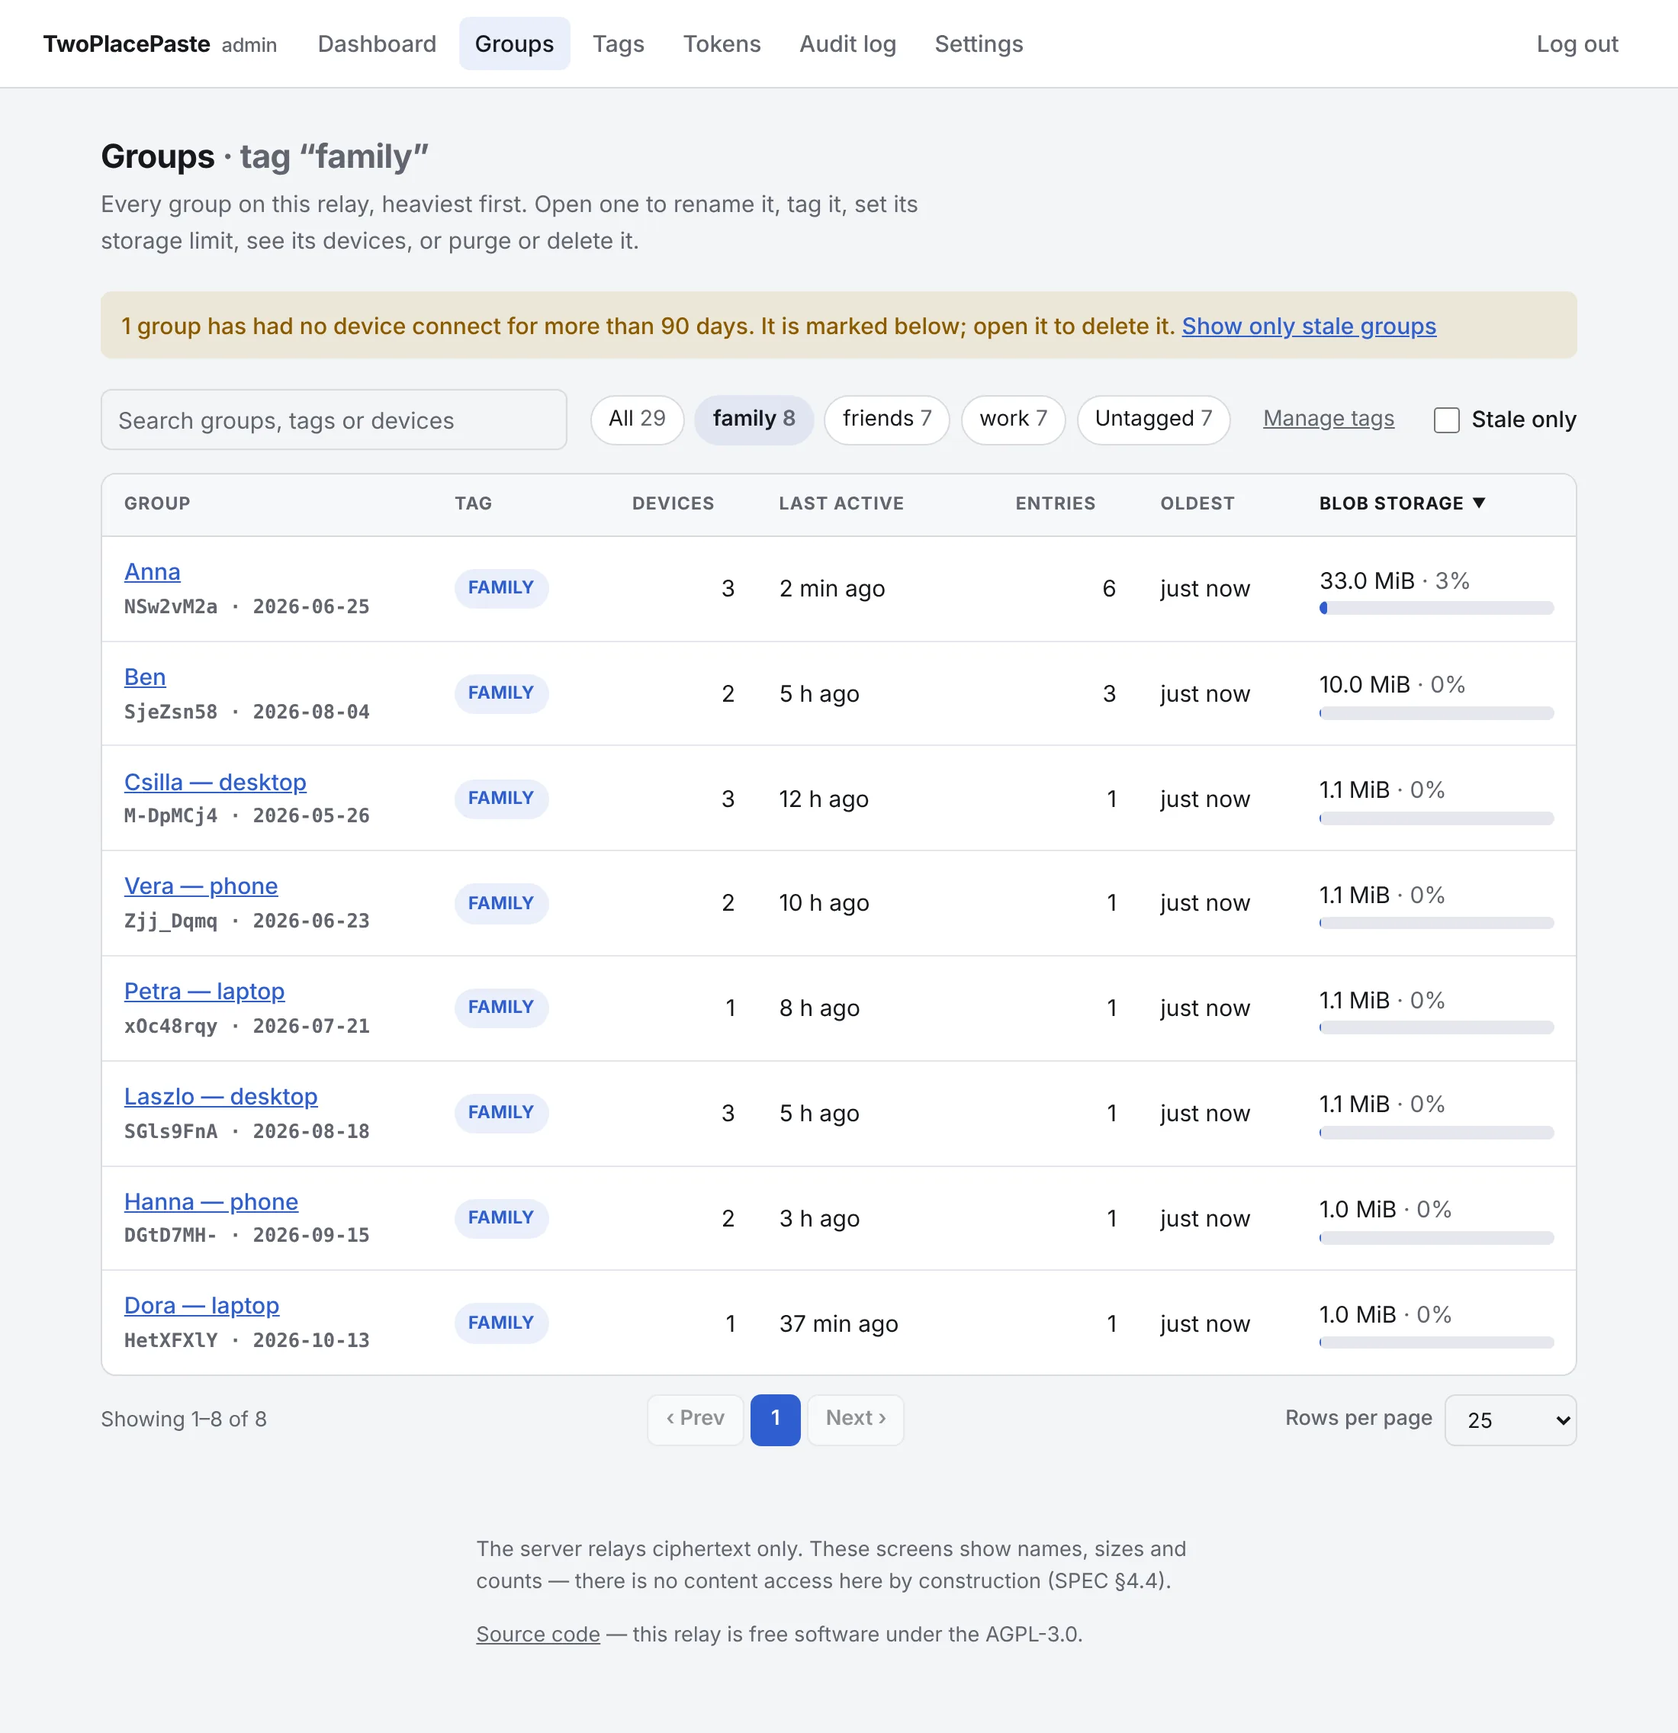
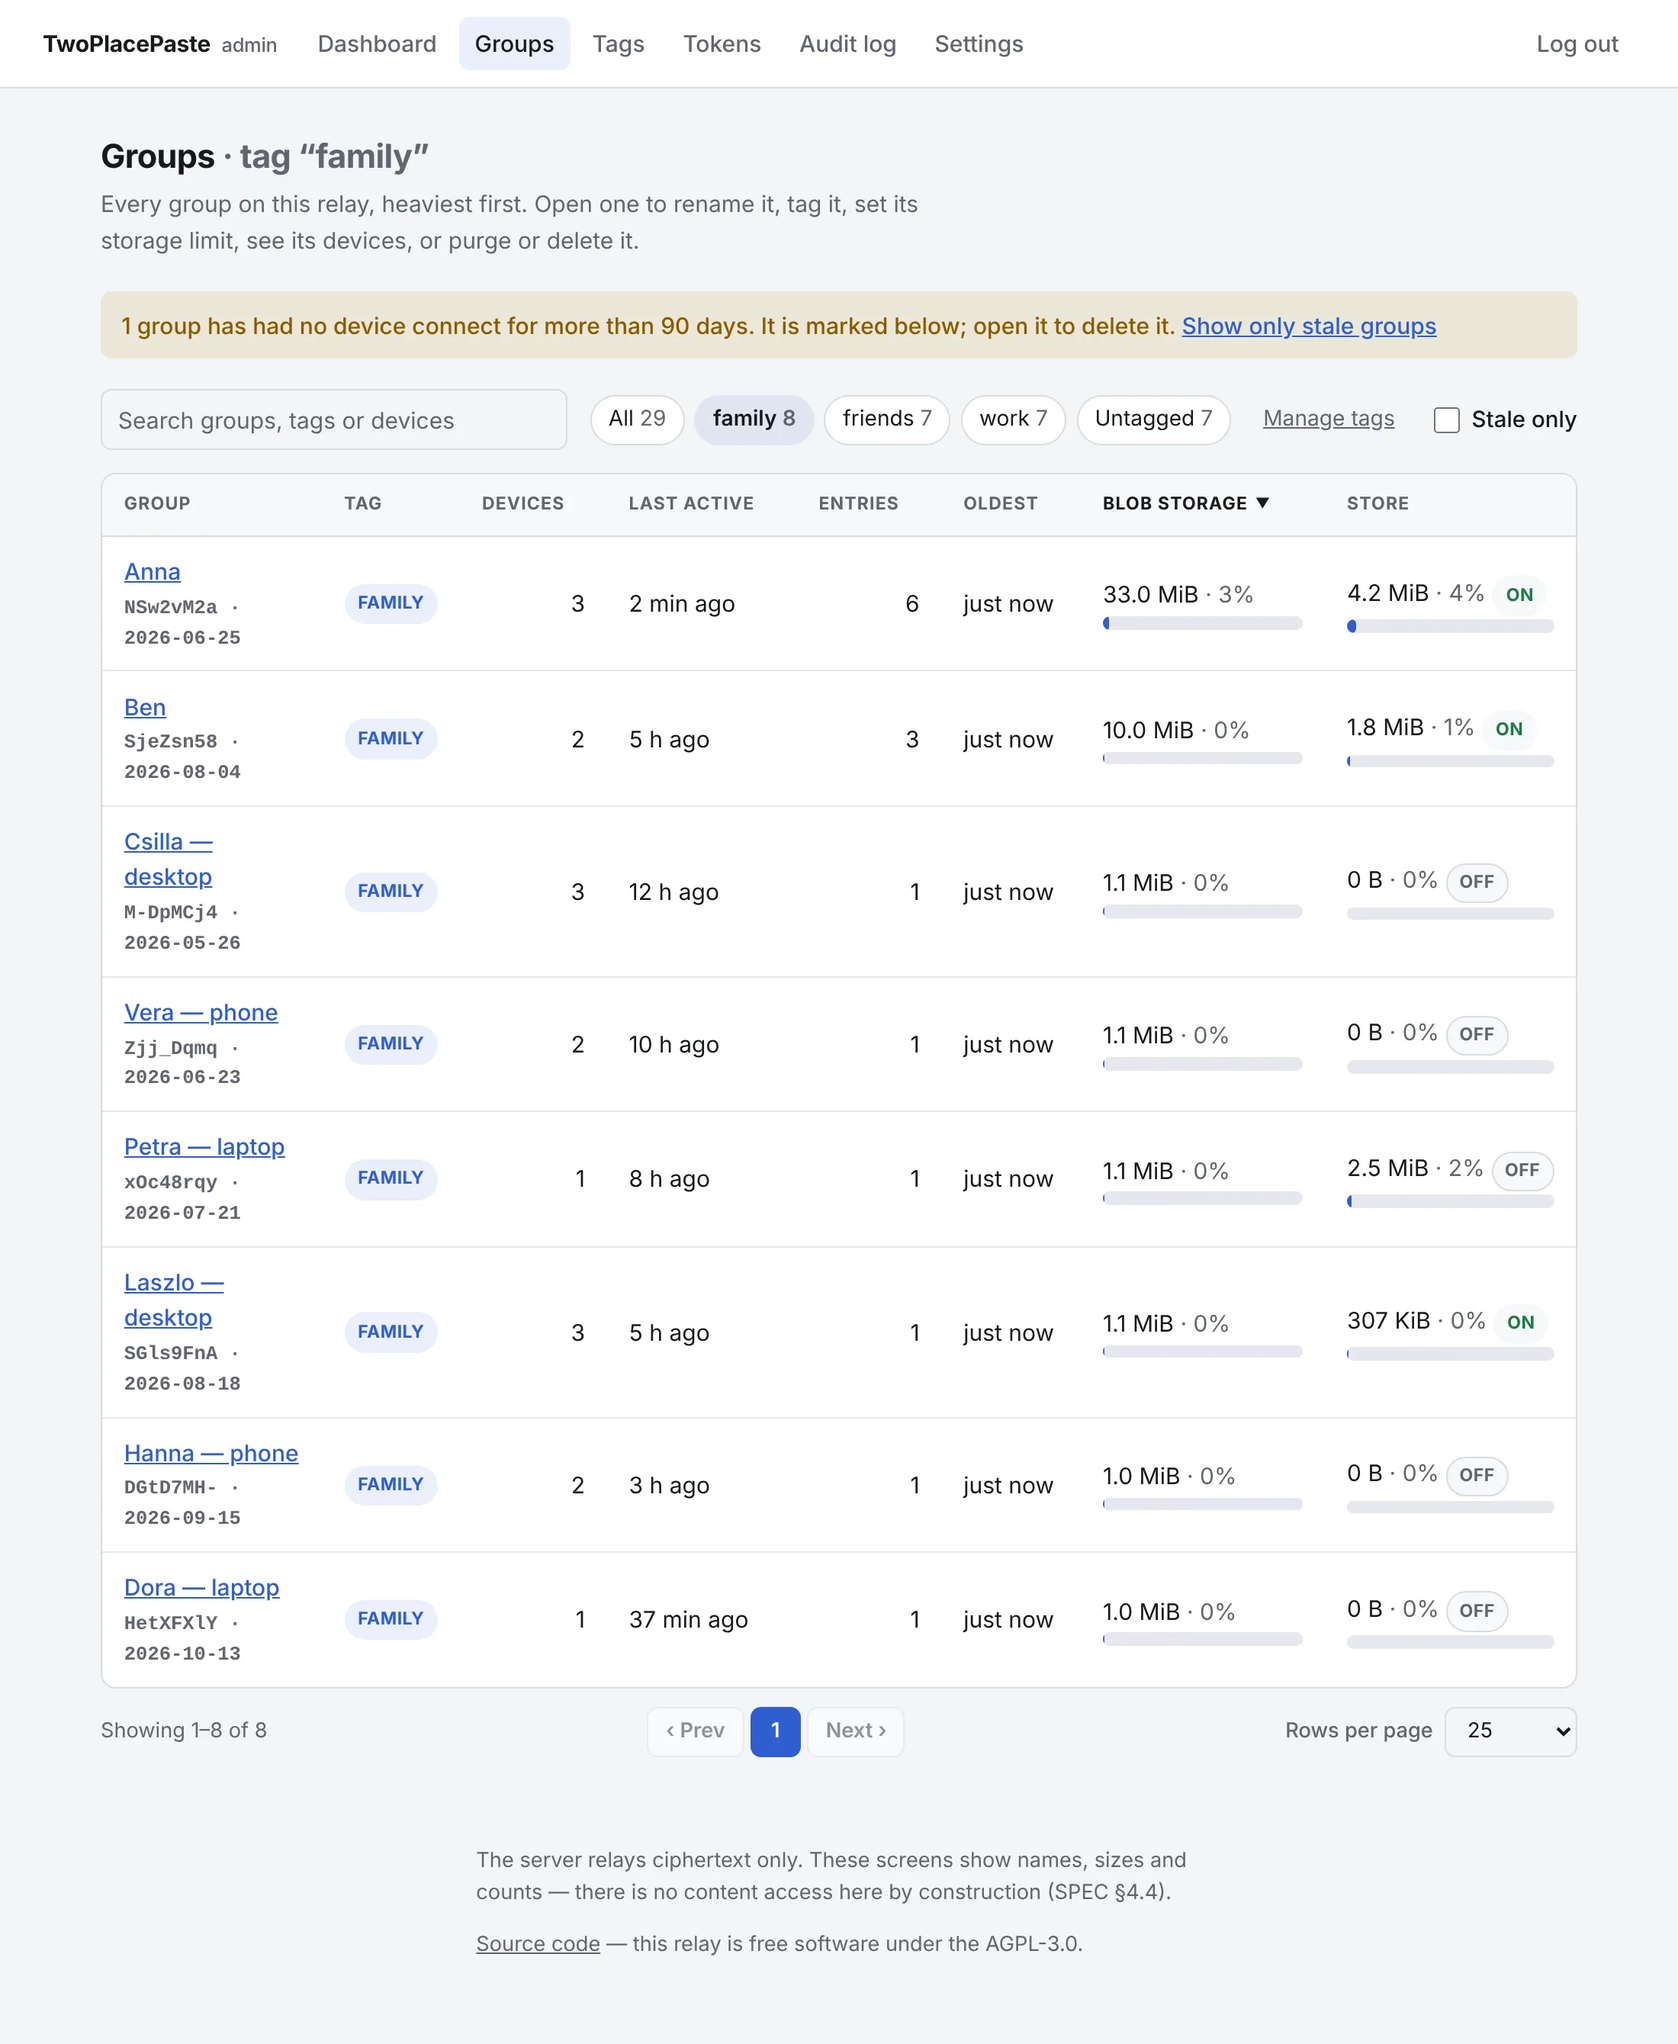
Show each group's store on the groups list
The groups list gains a Store column: what each group's store holds
against the cap it runs into, and whether it is on, off or being
emptied. The group page's store tile carries the same badge, so the
state reads at a glance there too.

- admin: each row of the groups list carries its store (on, emptying,
  used bytes and items, cap), and the list sorts by it (sort=store) and
  says whether the relay has a store at all (has_store). Only the list
  reads it, so the dashboard does no extra lookups.
- ui: the Store column, hidden on a relay without a store; a StoreBadge
  shared by the column, the tile and the Store section; StatCard takes
  a badge at the end of its title.
- docs: the groups list and group page text, and retaken screenshots.

Claude-Session: https://claude.ai/code/session_01HmpCbhUmA35H1CEHL6vmNK

diff --git a/server/ui/src/pages/GroupsPage.tsx b/server/ui/src/pages/GroupsPage.tsx
@@ -1,6 +1,6 @@
 import { useCallback, useState } from "react";
-import type { Group, GroupList } from "../api";
-import { Badge } from "../components/Badge";
+import type { Group, GroupList, GroupStoreRow } from "../api";
+import { Badge, StoreBadge } from "../components/Badge";
 import { Notice, Problems } from "../components/Notice";
 import { SmartTable, type Column, type DefaultSort } from "../components/SmartTable";
 import { Dash } from "../components/Dash";
@@ -72,6 +72,14 @@ const storageColumn: Column<Group> = {
   render: (g) => <UsageCell group={g} />,
 };
 
+const storeColumn: Column<Group> = {
+  key: "store",
+  header: "Store",
+  firstDir: "desc",
+  className: "usage",
+  render: (g) => (g.store ? <StoreCell group={g} store={g.store} /> : <Dash />),
+};
+
 /** GroupsPage lists every group, heaviest first, searchable and sortable,
  *  and narrowed by tag (?tag=name, or ?tag=- for the untagged ones) or to
  *  the stale ones (?stale=1). */
@@ -86,7 +94,12 @@ export function GroupsPage() {
 
   // Until the first answer says whether storage is accounted, assume it is:
   // a column that appears is less jarring than one that vanishes.
-  const columns = meta && !meta.has_usage ? baseColumns : [...baseColumns, storageColumn];
+  // The store column likewise, which every relay has today.
+  const columns = [
+    ...baseColumns,
+    ...(meta && !meta.has_usage ? [] : [storageColumn]),
+    ...(meta && !meta.has_store ? [] : [storeColumn]),
+  ];
   const open = useCallback((g: Group) => navigate(groupPath(g.handle)), [navigate]);
 
   // A filter starts its list from the first page.
@@ -209,6 +222,28 @@ function UsageCell({ group }: { group: Group }) {
         )}
       </span>
       <UsageMeter used={used} limit={limit} label={`Blob storage used by ${group.name}`} />
+    </span>
+  );
+}
+
+/** StoreCell is a group's store: on or off, and what it holds against the
+ *  cap it runs into. */
+function StoreCell({ group, store }: { group: Group; store: GroupStoreRow }) {
+  const used = store.used_bytes;
+  const limit = store.limit_bytes;
+  return (
+    <span className="stack">
+      <span className="nowrap">
+        {humanBytes(used)}
+        {limit > 0 && (
+          <>
+            {" "}
+            <span className="muted">· {percent(used, limit)}%</span>
+          </>
+        )}{" "}
+        <StoreBadge store={store} />
+      </span>
+      <UsageMeter used={used} limit={limit} label={`Store used by ${group.name}`} />
     </span>
   );
 }

diff --git a/server/ui/src/pages/GroupPage.tsx b/server/ui/src/pages/GroupPage.tsx
@@ -1,6 +1,6 @@
 import { useId, useState } from "react";
 import { api, type Device, type GroupDetail, type GroupStore, type LimitChange } from "../api";
-import { Badge, GroupBadges } from "../components/Badge";
+import { Badge, GroupBadges, StoreBadge } from "../components/Badge";
 import { SectionHead, StatCard } from "../components/Card";
 import { useLimitForm } from "../components/LimitFields";
 import { ErrorNotice, Problems } from "../components/Notice";
@@ -157,7 +157,7 @@ function Stats({ data }: { data: GroupDetail }) {
  *  page; the Store section further down holds its switch and limit. */
 function StoreStat({ store }: { store: GroupStore }) {
   return (
-    <StatCard title="Store">
+    <StatCard title="Store" badge={<StoreBadge store={store} />}>
       <p className="figure">
         {humanBytes(store.used_bytes)} <span className="muted of">of {limitText(store.limit_bytes)}</span>
       </p>
@@ -165,7 +165,6 @@ function StoreStat({ store }: { store: GroupStore }) {
       <p className="sub">
         {store.used_items} of {store.max_items} {plural(store.max_items, "item", "items")} · limit from{" "}
         {limitSources[store.limit_source]}
-        {store.emptying ? " · emptying" : !store.enabled && " · off"}
       </p>
     </StatCard>
   );
@@ -300,13 +299,7 @@ function StoreSection({
   return (
     <>
       <SectionHead title="Store">
-        {store.emptying ? (
-          <Badge kind="used">emptying</Badge>
-        ) : store.enabled ? (
-          <Badge kind="good">on</Badge>
-        ) : (
-          <Badge kind="used">off</Badge>
-        )}
+        <StoreBadge store={store} />
       </SectionHead>
       <div className="card">
         <div className="form-row spread">

diff --git a/server/ui/src/components/Card.tsx b/server/ui/src/components/Card.tsx
@@ -1,11 +1,25 @@
 import { useId, type ReactNode } from "react";
 
-/** StatCard is one figure of a summary row, such as "Groups 12". */
-export function StatCard({ title, wide, children }: { title: string; wide?: boolean; children: ReactNode }) {
+/** StatCard is one figure of a summary row, such as "Groups 12". A badge,
+ *  such as whether a feature is on, sits after the title. */
+export function StatCard({
+  title,
+  badge,
+  wide,
+  children,
+}: {
+  title: string;
+  badge?: ReactNode;
+  wide?: boolean;
+  children: ReactNode;
+}) {
   const id = useId();
   return (
     <section className={wide ? "card stat wide" : "card stat"} aria-labelledby={id}>
-      <h2 id={id}>{title}</h2>
+      <h2 id={id}>
+        {title}
+        {badge && <> {badge}</>}
+      </h2>
       {children}
     </section>
   );

diff --git a/server/ui/src/api/types.ts b/server/ui/src/api/types.ts
@@ -111,6 +111,17 @@ export interface Group {
   limit_source: LimitSource;
   /** Null when blob storage is not accounted. */
   usage: { used_bytes: number; over_limit: boolean } | null;
+  /** Only on the groups list, and only when the relay has a store. */
+  store?: GroupStoreRow;
+}
+
+/** GroupStoreRow is a group's store on the groups list. */
+export interface GroupStoreRow {
+  enabled: boolean;
+  emptying: boolean;
+  used_bytes: number;
+  used_items: number;
+  limit_bytes: number;
 }
 
 export interface GroupList extends TablePage<Group> {
@@ -123,6 +134,7 @@ export interface GroupList extends TablePage<Group> {
   stale_count: number;
   stale_after_days: number;
   has_usage: boolean;
+  has_store: boolean;
   problems: string[];
 }
 

diff --git a/server/ui/src/styles.css b/server/ui/src/styles.css
@@ -535,6 +535,11 @@ h1 .tag, td.name .tag { vertical-align: 0.15em; margin-left: 0.25rem; }
   color: var(--muted);
 }
 
+/* A tile's badge (the store's "on") sits at the far end of its title, as a
+   section's does. */
+.stat h2:has(.tag) { display: flex; justify-content: space-between; align-items: center; gap: 0.5rem; }
+.stat h2 .tag { font-size: 0.65rem; padding: 0.1rem 0.45rem; margin-block: -0.25rem; }
+
 .stat .figure {
   margin: 0;
   font-size: 1.6rem;

diff --git a/server/ui/src/components/Badge.tsx b/server/ui/src/components/Badge.tsx
@@ -34,3 +34,9 @@ export function GroupBadges({ group }: { group: Group }) {
     </>
   );
 }
+
+/** StoreBadge says whether a group's store is on, off, or being emptied. */
+export function StoreBadge({ store }: { store: { enabled: boolean; emptying: boolean } }) {
+  if (store.emptying) return <Badge kind="used">emptying</Badge>;
+  return store.enabled ? <Badge kind="good">on</Badge> : <Badge kind="used">off</Badge>;
+}

diff --git a/server/internal/admin/store_test.go b/server/internal/admin/store_test.go
@@ -5,6 +5,7 @@ import (
 	"log/slog"
 	"net/http"
 	"testing"
+	"time"
 
 	"github.com/Mark7888/two-place-paste/server/internal/admin"
 	"github.com/Mark7888/two-place-paste/server/internal/items"
@@ -224,5 +225,77 @@ func TestPurgeGroupStore(t *testing.T) {
 
 	if resp := f.call(c, csrf, http.MethodPost, "/admin/api/groups/"+admin.HandleOf("missing")+"/store/purge", nil); resp.StatusCode != http.StatusNotFound {
 		t.Errorf("purge of a missing group: status = %d, want %d", resp.StatusCode, http.StatusNotFound)
+	}
+}
+
+// TestGroupListStore: the groups list shows each group's store — on or off,
+// what it holds, its cap — and sorts by it; a relay without a store has no
+// store column (SPEC §4.4, §4.6).
+func TestGroupListStore(t *testing.T) {
+	t.Parallel()
+	f := newStoreFixture(t)
+	ctx := context.Background()
+	on := f.group(t, store.NewToken{Name: "Anna"})
+	off := f.group(t, store.NewToken{Name: "Bela"})
+	if err := f.store.SetGroupStore(ctx, on, true); err != nil {
+		t.Fatalf("SetGroupStore() error = %v", err)
+	}
+	g, err := f.store.GetGroup(ctx, on)
+	if err != nil {
+		t.Fatalf("GetGroup() error = %v", err)
+	}
+	r := store.ItemReservation{GroupID: on, ItemID: "item-1", Epoch: g.Epoch, Size: 3 << 20, Accounted: 3 << 20, StartedAt: time.Now()}
+	if err := f.store.ReserveItem(ctx, r, store.ItemLimits{GroupItems: 10}); err != nil {
+		t.Fatalf("ReserveItem() error = %v", err)
+	}
+	c := f.client()
+	f.login(c)
+
+	type row struct {
+		Handle string `json:"handle"`
+		Store  *struct {
+			Enabled    bool  `json:"enabled"`
+			UsedBytes  int64 `json:"used_bytes"`
+			UsedItems  int64 `json:"used_items"`
+			LimitBytes int64 `json:"limit_bytes"`
+		} `json:"store"`
+	}
+	type list struct {
+		Rows     []row `json:"rows"`
+		HasStore bool  `json:"has_store"`
+	}
+	for _, dir := range []string{"desc", "asc"} {
+		got := readJSON[list](t, f.get(c, "/admin/api/groups?sort=store&dir="+dir))
+		if !got.HasStore || len(got.Rows) != 2 {
+			t.Fatalf("list = %+v, want two groups and a store column", got)
+		}
+		first, second := admin.HandleOf(on), admin.HandleOf(off)
+		if dir == "asc" {
+			first, second = second, first
+		}
+		if got.Rows[0].Handle != first || got.Rows[1].Handle != second {
+			t.Errorf("sort=store dir=%s = %s, %s, want %s, %s", dir, got.Rows[0].Handle, got.Rows[1].Handle, first, second)
+		}
+		for _, r := range got.Rows {
+			if r.Store == nil {
+				t.Fatalf("row %s has no store", r.Handle)
+			}
+			want := r.Handle == admin.HandleOf(on)
+			if r.Store.Enabled != want || r.Store.LimitBytes != 100<<20 {
+				t.Errorf("row %s store = %+v, want enabled %v with the 100 MiB default", r.Handle, *r.Store, want)
+			}
+			if want && (r.Store.UsedBytes != 3<<20 || r.Store.UsedItems != 1) {
+				t.Errorf("row %s store = %+v, want 3 MiB in 1 item", r.Handle, *r.Store)
+			}
+		}
+	}
+
+	bare := newGroupFixture(t, quota.Limits{}, nil)
+	bare.group(t, "Anna")
+	bc := bare.client()
+	bare.login(bc)
+	got := readJSON[list](t, bare.get(bc, "/admin/api/groups"))
+	if got.HasStore || len(got.Rows) != 1 || got.Rows[0].Store != nil {
+		t.Errorf("list without a store = %+v, want no store column", got)
 	}
 }

diff --git a/server/internal/admin/dashboard.go b/server/internal/admin/dashboard.go
@@ -101,6 +101,10 @@ type groupJSON struct {
 
 	// Usage is nil when blob storage is not accounted.
 	Usage *usageJSON `json:"usage"`
+
+	// Store is the group's store, on the groups list only; it is absent
+	// elsewhere and when the relay has no store.
+	Store *storeRowJSON `json:"store,omitempty"`
 }
 
 type usageJSON struct {
@@ -130,6 +134,7 @@ type groupsJSON struct {
 	StaleCount     int  `json:"stale_count"`
 	StaleAfterDays int  `json:"stale_after_days"`
 	HasUsage       bool `json:"has_usage"`
+	HasStore       bool `json:"has_store"`
 
 	Problems []string `json:"problems"`
 }
@@ -233,6 +238,7 @@ var groupTable = table[groupItem]{
 		"entries":     {cmp: func(a, b groupItem) int { return byNumber(a.row.Entries, b.row.Entries) }, desc: true},
 		"oldest":      {cmp: func(a, b groupItem) int { return byTime(a.row.Oldest, b.row.Oldest) }, desc: true},
 		"storage":     {cmp: func(a, b groupItem) int { return byNumber(usedBytes(a.row), usedBytes(b.row)) }, desc: true},
+		"store":       {cmp: func(a, b groupItem) int { return byNumber(storeBytes(a.row), storeBytes(b.row)) }, desc: true},
 	},
 	defaultSort: "storage",
 	fields: func(g groupItem) []string {
@@ -261,6 +267,7 @@ func (s *Server) handleGroupList(w http.ResponseWriter, r *http.Request, _ sessi
 		Filter:   filter,
 		Stale:    staleOnly,
 		HasUsage: s.dashboard.Ledger != nil,
+		HasStore: s.storeSvc != nil,
 	}
 
 	groups, err := s.store.ListGroups(ctx)
@@ -293,6 +300,7 @@ func (s *Server) handleGroupList(w http.ResponseWriter, r *http.Request, _ sessi
 		if (filter != "" && filter != key) || (staleOnly && !row.Stale) {
 			continue
 		}
+		row.Store = s.storeRow(ctx, g, tags, probs)
 		item := groupItem{row: row, id: g.ID, devices: make([]string, 0, len(devices))}
 		for _, d := range devices {
 			item.devices = append(item.devices, d.Name)
@@ -323,6 +331,13 @@ func usedBytes(g groupJSON) int64 {
 		return 0
 	}
 	return g.Usage.UsedBytes
+}
+
+func storeBytes(g groupJSON) int64 {
+	if g.Store == nil {
+		return 0
+	}
+	return g.Store.UsedBytes
 }
 
 // settings reads the runtime settings, falling back to the defaults when they

diff --git a/server/internal/admin/store.go b/server/internal/admin/store.go
@@ -65,6 +65,49 @@ type groupStoreJSON struct {
 	MaxItemBytes int64 `json:"max_item_bytes"`
 }
 
+// storeRowJSON is a group's store on the groups list: whether it is on, and
+// how much it holds against the cap it runs into.
+type storeRowJSON struct {
+	Enabled    bool  `json:"enabled"`
+	Emptying   bool  `json:"emptying"`
+	UsedBytes  int64 `json:"used_bytes"`
+	UsedItems  int64 `json:"used_items"`
+	LimitBytes int64 `json:"limit_bytes"`
+}
+
+// storeRow builds a group's store cell for the groups list, or nil when the
+// relay has no store.
+func (s *Server) storeRow(ctx context.Context, g store.Group, tags map[string]store.Tag, probs *problems) *storeRowJSON {
+	if s.storeSvc == nil {
+		return nil
+	}
+	limit := s.storeSvc.GroupLimit(g, tagOf(g, tags))
+	v := &storeRowJSON{
+		Enabled:    g.StoreEnabled,
+		LimitBytes: storeShown(limit.Bytes, s.storeSvc.Config().MaxTotalBytes),
+	}
+	if u, err := s.store.StoreUsage(ctx, g.ID); err != nil {
+		probs.add("the store usage of "+g.Name, err)
+	} else {
+		v.UsedBytes, v.UsedItems = u.Bytes, u.Items
+	}
+	if emptying, err := s.storeSvc.Reclaiming(ctx, g.ID); err != nil {
+		probs.add("the store state of "+g.Name, err)
+	} else {
+		v.Emptying = emptying
+	}
+	return v
+}
+
+// tagOf is the tag a group is under, or nil when it has none or its tag is
+// gone.
+func tagOf(g store.Group, tags map[string]store.Tag) *store.Tag {
+	if t, ok := tags[g.Tag]; ok && g.Tag != "" {
+		return &t
+	}
+	return nil
+}
+
 // groupStore builds the store section of a group's page, or nil when the
 // relay has no store.
 func (s *Server) groupStore(ctx context.Context, g store.Group, tags map[string]store.Tag, probs *problems) *groupStoreJSON {
@@ -72,10 +115,7 @@ func (s *Server) groupStore(ctx context.Context, g store.Group, tags map[string]
 		return nil
 	}
 	cfg := s.storeSvc.Config()
-	var tag *store.Tag
-	if t, ok := tags[g.Tag]; ok && g.Tag != "" {
-		tag = &t
-	}
+	tag := tagOf(g, tags)
 	limit := s.storeSvc.GroupLimit(g, tag)
 	v := &groupStoreJSON{
 		Enabled:           g.StoreEnabled,
